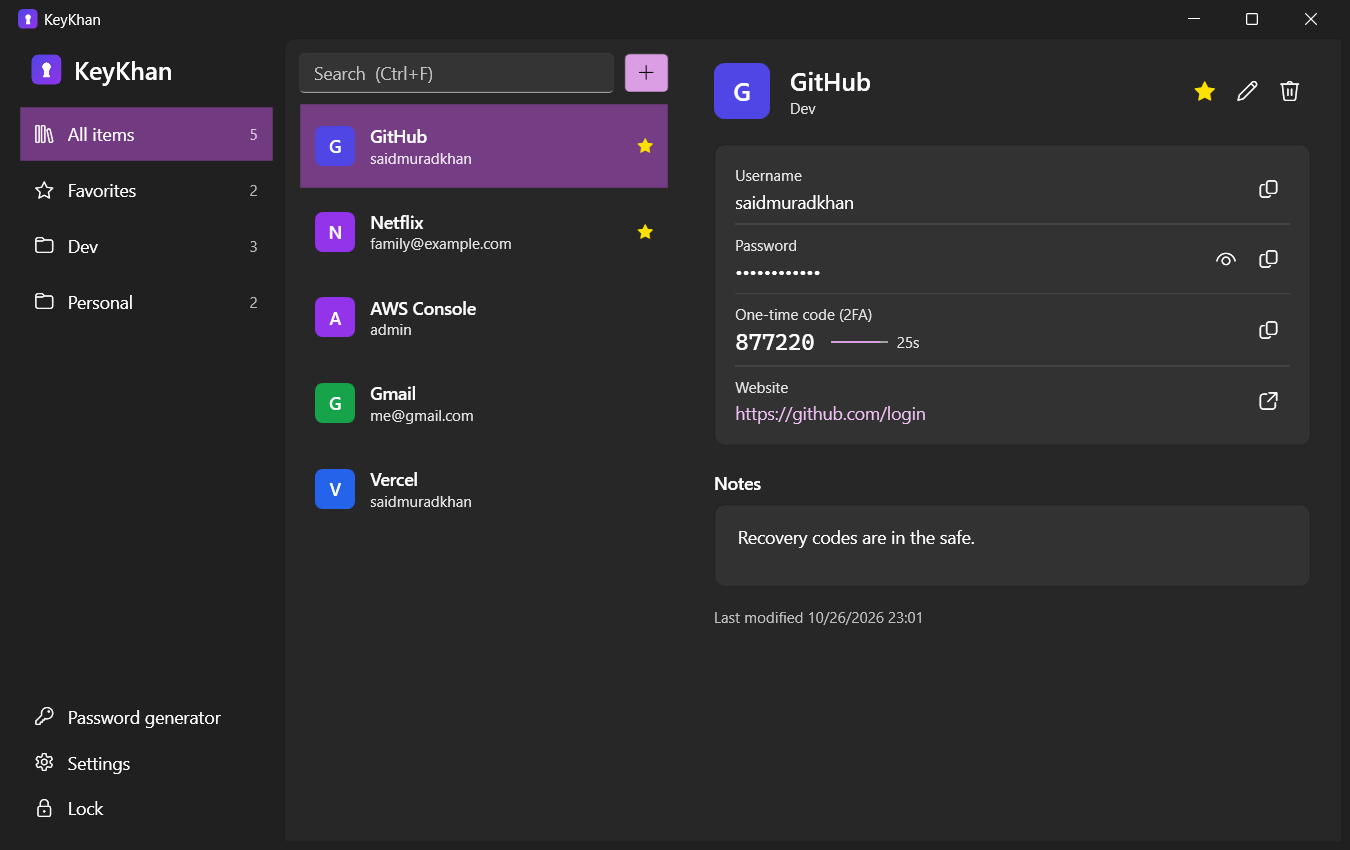
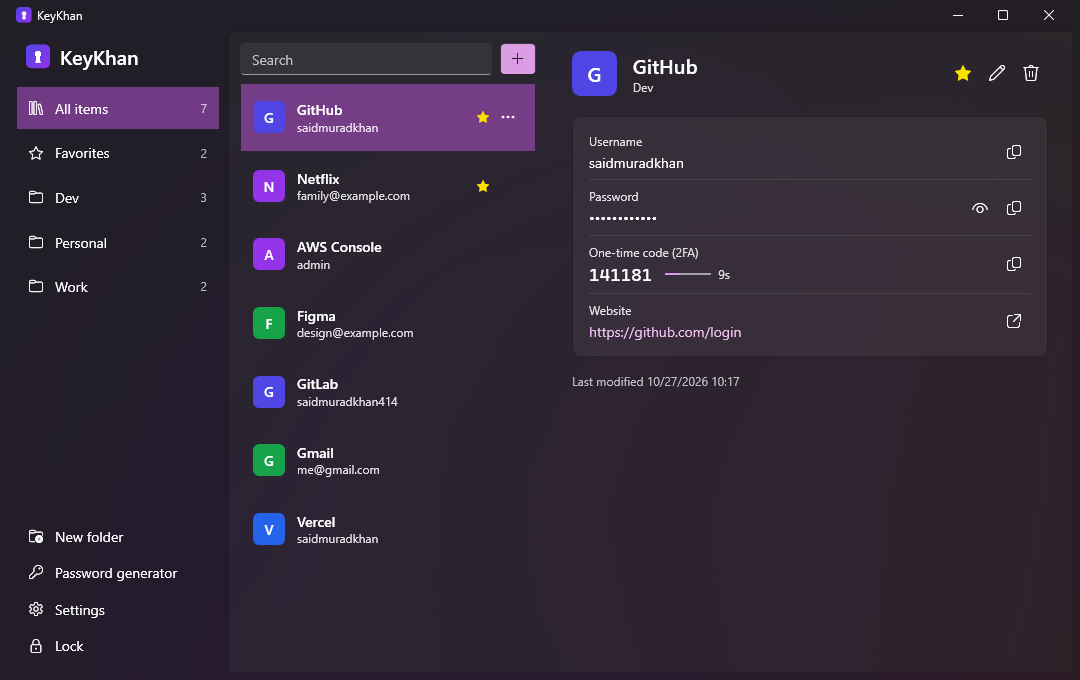
docs: demo GIF, project showcase, security policy, contributing guide and winget manifest

diff --git a/README.md b/README.md
@@ -1,8 +1,39 @@
-# KeyKhan
+<div align="center">
+  <img src="src/KeyKhan.App/Resources/logo.png" width="96" alt="KeyKhan logo">
+  <h1>KeyKhan</h1>
+  <p>
+    <b>A fast, offline password manager for Windows.</b><br>
+    Press <kbd>Win</kbd> + <kbd>~</kbd> anywhere, type a few letters, hit <kbd>Enter</kbd> — the password is on your clipboard.
+  </p>
+  <p>
+    <a href="https://github.com/saidmuradkhan/KeyKhan/actions/workflows/ci.yml"><img src="https://img.shields.io/github/actions/workflow/status/saidmuradkhan/KeyKhan/ci.yml?branch=main&label=build" alt="Build"></a>
+    <a href="https://github.com/saidmuradkhan/KeyKhan/releases/latest"><img src="https://img.shields.io/github/v/release/saidmuradkhan/KeyKhan" alt="Latest release"></a>
+    <a href="https://github.com/saidmuradkhan/KeyKhan/releases"><img src="https://img.shields.io/github/downloads/saidmuradkhan/KeyKhan/total" alt="Downloads"></a>
+    <img src="https://img.shields.io/badge/platform-Windows%2010%20%7C%2011-0078D4" alt="Windows 10 | 11">
+    <a href="LICENSE"><img src="https://img.shields.io/github/license/saidmuradkhan/KeyKhan" alt="MIT license"></a>
+  </p>
+  <p>
+    <a href="https://github.com/saidmuradkhan/KeyKhan/releases/latest/download/KeyKhan-Setup.exe"><b>⬇ Download for Windows</b></a>
+    &nbsp;·&nbsp; <a href="#features">Features</a>
+    &nbsp;·&nbsp; <a href="#security-design">Security</a>
+    &nbsp;·&nbsp; <a href="CONTRIBUTING.md">Contributing</a>
+  </p>
+  <img src="docs/demo.gif" width="800" alt="Pressing Win + ~, typing 'git' and copying the GitHub password">
+</div>
 
-A fast, offline password manager for Windows. Press **Win + ~** anywhere, type a few letters, hit **Enter** — the password is on your clipboard and the window is gone.
+## Why KeyKhan?
 
-The cryptographic core is written in **C++** on top of Windows CNG; the app is **.NET 10 / WPF** with the Windows 11 Fluent theme.
+- **Built for the keyboard.** One global shortcut, a few letters, <kbd>Enter</kbd>. It can even auto-type the login into the app you were using.
+- **Yours, on your PC.** No account, no cloud, no subscription. The vault is a single encrypted file you can back up or sync however you like.
+- **Serious crypto, done by the OS.** AES-256-GCM and PBKDF2 from Windows CNG, called from a small C++ core that keeps keys out of the .NET heap.
+- **Native Windows 11 feel.** Fluent design, light and dark theme, tray icon, starts with Windows.
+
+| | KeyKhan | Typical cloud password manager |
+| --- | --- | --- |
+| Account required | No | Yes |
+| Your vault leaves your PC | Never | Synced to the provider |
+| Price | Free, MIT licensed | Often a subscription |
+| Works offline | Always | Depends |
 
 *KeyKhan* = **Key** + **Khan**, after its author Said Muradkhan.
 

diff --git a/CONTRIBUTING.md b/CONTRIBUTING.md
@@ -1,0 +1,56 @@
+# Contributing to KeyKhan
+
+Thanks for helping! Bug reports, ideas and pull requests are all welcome.
+
+## Before you start
+
+- **Found a security problem?** Follow [SECURITY.md](SECURITY.md) instead of opening an issue.
+- **Bug or idea?** Open an [issue](https://github.com/saidmuradkhan/KeyKhan/issues/new/choose) first, so we can agree
+  on the approach before you write code.
+- **Looking for something to do?** Issues labelled
+  [good first issue](https://github.com/saidmuradkhan/KeyKhan/labels/good%20first%20issue) are a gentle start.
+
+## Building
+
+You need Windows 10 or 11 (x64), the [.NET 10 SDK](https://dotnet.microsoft.com/download) and Visual Studio 2022/2026
+or Build Tools with the **Desktop development with C++** workload.
+
+```powershell
+git clone https://github.com/saidmuradkhan/KeyKhan.git
+cd KeyKhan
+dotnet run --project src/KeyKhan.App     # run the app
+.\build.ps1                              # all tests + a release build
+```
+
+To try changes without touching your real vault, give the app its own folder:
+
+```powershell
+$env:KEYKHAN_HOME = "$env:TEMP\keykhan-dev"
+dotnet run --project src/KeyKhan.App
+```
+
+## Where things live
+
+| Folder | What it is |
+| --- | --- |
+| `src/KeyKhan.Native` | C++20 core: key derivation, AES-GCM, key wrapping, DPAPI and TOTP over Windows CNG |
+| `src/KeyKhan.Vault` | .NET library: vault file format, entries, folders, generator, search, CSV |
+| `src/KeyKhan.App` | WPF app (MVVM): windows, hotkey, tray, clipboard, auto-lock, auto-type, updates |
+| `tests/` | xUnit tests for the vault library and the app logic |
+| `installer/` | Inno Setup script for `KeyKhan-Setup.exe` |
+
+## Pull requests
+
+- Keep each pull request to one change, and match the style of the surrounding code.
+- The build treats warnings as errors; `.\build.ps1` must pass.
+- Add or update tests for behaviour you change. Changes to the vault format or crypto need tests that cover
+  wrong keys and tampered data.
+- Write commit messages as `type: what changed`, for example `fix: keep the selection after moving an entry`
+  (`feat`, `fix`, `docs`, `build`, `refactor`, `test`).
+- Changes to `src/KeyKhan.Native` or the vault format get an extra careful review, so please explain your reasoning
+  in the pull request.
+
+## Releases
+
+Maintainers release by pushing a `vX.Y.Z` tag; the release workflow builds, tests and publishes the installer and the
+portable executable, and installed copies pick the update up automatically.

diff --git a/SECURITY.md b/SECURITY.md
@@ -1,0 +1,34 @@
+# Security policy
+
+KeyKhan guards passwords, so security reports get priority over everything else.
+
+## Reporting a vulnerability
+
+Please **do not open a public issue**. Use GitHub's private reporting instead:
+**[Report a vulnerability](https://github.com/saidmuradkhan/KeyKhan/security/advisories/new)**.
+
+Include what you found, the steps to reproduce it and the version you tested (Settings → Updates shows it).
+You can expect a first answer within 72 hours. Once a fix is released you will be credited in the advisory,
+unless you prefer not to be.
+
+## Supported versions
+
+Only the [latest release](https://github.com/saidmuradkhan/KeyKhan/releases/latest) receives security fixes.
+Installed copies update themselves, so a fix reaches users within hours of its release.
+
+## Scope
+
+In scope:
+
+- the vault file format and its encryption (`src/KeyKhan.Native`, `src/KeyKhan.Vault`)
+- anything that could expose a secret: clipboard handling, auto-type, memory handling, the recovery key, "Remember me"
+- the updater, which downloads and runs the installer after checking its SHA-256 digest
+
+Out of scope, because no local password manager can defend against them:
+
+- an attacker who already runs code as your Windows user while the vault is unlocked
+- an attacker with administrator rights on the machine
+- physical access to an unlocked, unattended computer
+
+The [security design](README.md#security-design) section of the README describes how KeyKhan protects your data and
+its known limitations.

diff --git a/.github/pull_request_template.md b/.github/pull_request_template.md
@@ -1,0 +1,13 @@
+## What and why
+
+<!-- What does this change, and which issue does it address? -->
+
+## How it was tested
+
+- [ ] `.\build.ps1` passes
+- [ ] Tests added or updated for the changed behaviour
+- [ ] Tried in the app (with `KEYKHAN_HOME` pointing to a test folder)
+
+## Touches security-sensitive code?
+
+<!-- Vault format, crypto, clipboard, auto-type, updater: explain the reasoning. Otherwise write "No". -->
